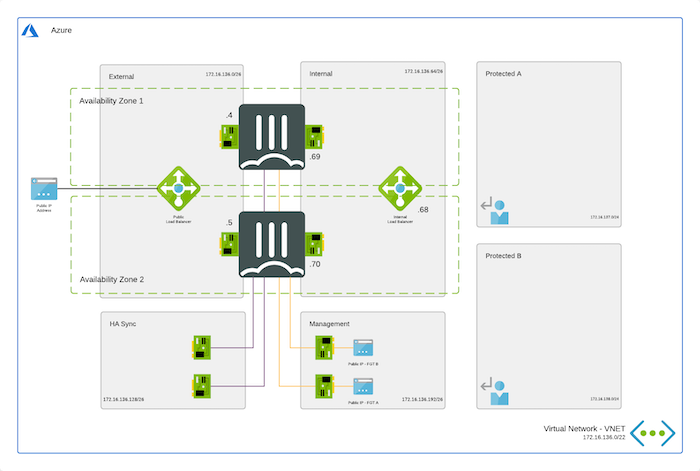
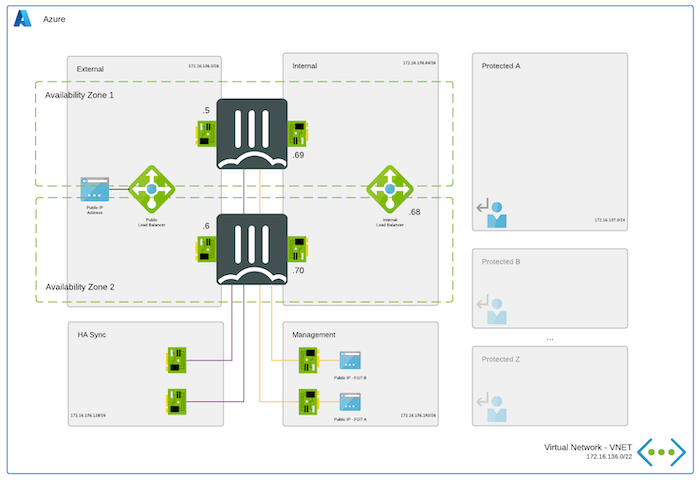
Update images for AP and AA

diff --git a/FortiGate/Active-Active-ELB-ILB/README.md b/FortiGate/Active-Active-ELB-ILB/README.md
@@ -23,6 +23,10 @@ This Azure ARM template will automatically deploy a full working environment con
 
 ![active/active design](images/fgt-aa.png)
 
+To enhance the availability of the solution VM can be installed in different Availability Zones instead of an Availability Set. If Availability Zones deployment is selected but the location does not support Availability Zones an Availability Set will be deployed. If Availability Zones deployment is selected and Availability Zones are available in the location, FortiGate A will be placed in Zone 1, FortiGate B will be placed in Zone 2.
+
+![active/active design](images/fgt-aa-az.png)
+
 This ARM template can also be used to extend or customized based on your requirements. Additional subnets besides the one's mentioned above are not automatically generated. By adapting the ARM templates you can add additional subnets which prefereably require their own routing tables.
 
 ## How to deploy
@@ -36,18 +40,14 @@ The FortiGate solution can be deployed using the Azure Portal or Azure CLI. Ther
 
 ### Azure Portal
 
-<a href="https://portal.azure.com/#create/Microsoft.Template/uri/https%3A%2F%2Fraw.githubusercontent.com%2F40net-cloud%2Ffortinet-azure-solutions%2Fmain%2FFortiGate%2FActive-Active-ELB-ILB%2Fazuredeploy.json" target="_blank">
-  <img src="https://raw.githubusercontent.com/Azure/azure-quickstart-templates/master/1-CONTRIBUTION-GUIDE/images/deploytoazure.svg?sanitize=true"/>
-</a>
-<a href="http://armviz.io/#/?load=https%3A%2F%2Fraw.githubusercontent.com%2F40net-cloud%2Ffortinet-azure-solutions$2Fmain%2FFortiGate%2FActive-Active-ELB-ILB%2Fazuredeploy.json" target="_blank">
-  <img src="https://raw.githubusercontent.com/Azure/azure-quickstart-templates/master/1-CONTRIBUTION-GUIDE/images/visualizebutton.svg?sanitize=true"/>
-</a>
-
-<br/>
 Azure Portal Wizard:
-<a href="https://portal.azure.com/#create/Microsoft.Template/uri/https%3A%2F%2Fraw.githubusercontent.com%2F40net-cloud%2Ffortinet-azure-solutions%2Fmain%2FFortiGate%2FActive-Active-ELB-ILB%2Fazuredeploy.json/createUIDefinitionUri/https%3A%2F%2Fraw.githubusercontent.com%2F40net-cloud%2Ffortinet-azure-solutions%2Fmain%2FFortiGate%2FActive-Active-ELB-ILB%2FcreateUiDefinition.json" target="_blank">
-  <img src="https://raw.githubusercontent.com/Azure/azure-quickstart-templates/master/1-CONTRIBUTION-GUIDE/images/deploytoazure.svg?sanitize=true"/>
-</a>
+[![Deploy Azure Portal Button](https://raw.githubusercontent.com/Azure/azure-quickstart-templates/master/1-CONTRIBUTION-GUIDE/images/deploytoazure.svg?sanitize=true)](https://portal.azure.com/#create/Microsoft.Template/uri/https%3A%2F%2Fraw.githubusercontent.com%2F40net-cloud%2Ffortinet-azure-solutions%2Fmain%2FFortiGate%2FActive-Active-ELB-ILB%2Fazuredeploy.json/createUIDefinitionUri/https%3A%2F%2Fraw.githubusercontent.com%2F40net-cloud%2Ffortinet-azure-solutions%2Fmain%2FFortiGate%2FActive-Active-ELB-ILB%2FcreateUiDefinition.json)
+
+Custom deployment:
+
+[![Deploy Azure Portal Button](https://raw.githubusercontent.com/Azure/azure-quickstart-templates/master/1-CONTRIBUTION-GUIDE/images/deploytoazure.svg?sanitize=true)](https://portal.azure.com/#create/Microsoft.Template/uri/https%3A%2F%2Fraw.githubusercontent.com%2F40net-cloud%2Ffortinet-azure-solutions%2Fmain%2FFortiGate%2FActive-Active-ELB-ILB%2Fazuredeploy.json)
+
+[![Visualize](https://raw.githubusercontent.com/Azure/azure-quickstart-templates/master/1-CONTRIBUTION-GUIDE/images/visualizebutton.svg?sanitize=true)](http://armviz.io/#/?load=https%3A%2F%2Fraw.githubusercontent.com%2F40net-cloud%2Ffortinet-azure-solutions$2Fmain%2FFortiGate%2FActive-Active-ELB-ILB%2Fazuredeploy.json)
 
 ### Azure CLI
 
